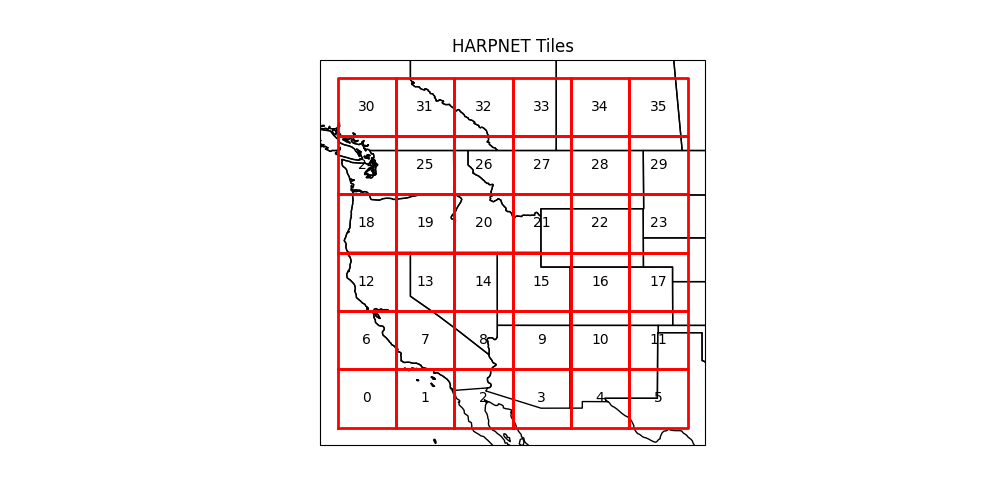
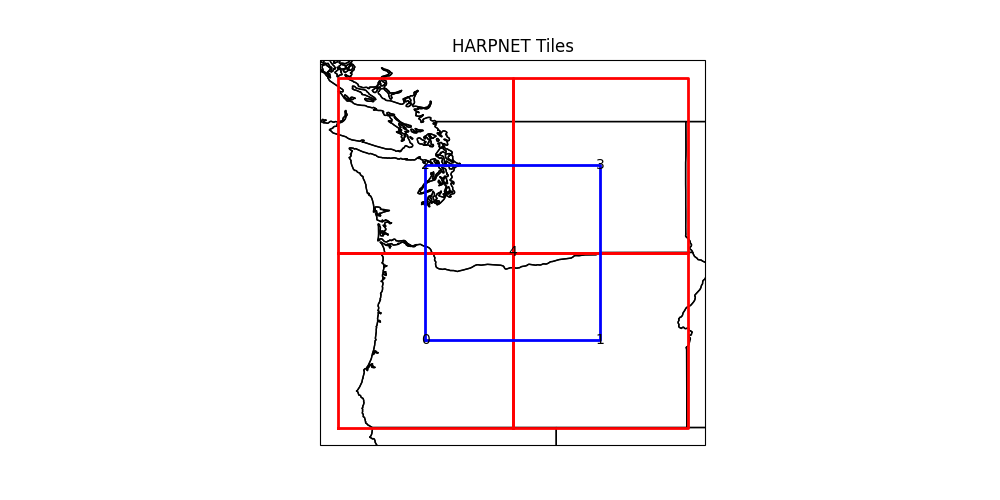
v3

Changed region(s): [[0.31, 0.12, 0.713, 0.9], [0.341, 0.78, 0.372, 0.81]]

diff --git a/v3/src/tile_weight_mask.py b/v3/src/tile_weight_mask.py
@@ -1,0 +1,63 @@
+import numpy as np
+
+
+def tile_weight_mask(size=64):
+    """
+    Generates a 2D NumPy array of specified size with:
+    - The four central grids set to 1.
+    - The corner grids set to 0.
+    - The two central grids on each edge set to 0.5.
+    - Intermediate grids varying based on their distance from the center.
+
+    Parameters:
+    - size (int): The size of the grid (size x size). Default is 64.
+
+    Returns:
+    - array (np.ndarray): The generated 2D array.
+    """
+    # Initialize a size x size array with zeros
+    array = np.zeros((size, size))
+    
+    # Define the center of the array
+    center = (size / 2 - 0.5, size / 2 - 0.5)  # e.g., (31.5, 31.5) for size=64
+    
+    # Create coordinate grids
+    x = np.arange(size)
+    y = np.arange(size)
+    X, Y = np.meshgrid(x, y)
+    
+    # Calculate the Euclidean distance from each grid to the center
+    distance = np.sqrt((X - center[0])**2 + (Y - center[1])**2)
+    
+    # Maximum distance is from center to a corner
+    max_distance = np.sqrt((center[0])**2 + (center[1])**2)
+    
+    # Apply the gradient formula: 1 - (distance / max_distance)^2
+    array = 1 - (distance / max_distance)**2
+    
+    # Ensure that the values are within [0, 1]
+    array = np.clip(array, 0, 1)
+    
+    # Assign exact values to the central grids
+    central_indices = [int(center[0]), int(center[1])]
+    array[central_indices[0], central_indices[1]] = 1
+    array[central_indices[0], central_indices[1]+1] = 1
+    array[central_indices[0]+1, central_indices[1]] = 1
+    array[central_indices[0]+1, central_indices[1]+1] = 1
+    
+    # Assign exact values to the corner grids
+    corners = [(0,0), (0,size-1), (size-1,0), (size-1,size-1)]
+    for corner in corners:
+        array[corner] = 0
+    
+    # Assign exact values to the center of each edge
+    edge_centers = [
+        (0, int(center[1])), (0, int(center[1]+1)),
+        (size-1, int(center[1])), (size-1, int(center[1]+1)),
+        (int(center[0]), 0), (int(center[0]+1), 0),
+        (int(center[0]), size-1), (int(center[0]+1), size-1)
+    ]
+    for edge in edge_centers:
+        array[edge] = 0.5
+    
+    return array

diff --git a/v3/train.py b/v3/train.py
@@ -8,29 +8,29 @@ from src.cleanup import cleanup
 
 # Variables
 start_month = (1979, 10)
-end_month = (1979, 10)
+end_month = (1984, 9)
 train_test_ratio = 0.2
-start_epoch, end_epoch = 0, 20
-zip_setting = False    # False, 'load', or 'save'
+start_epoch, end_epoch = 0, 5
+zip_setting = 'load'    # False, 'load', or 'save'
 max_ensemble_size = 8
 
 # plot_tiles()
 
-setup()
+tiles = list(range(0, 5))
 
-xr_to_np(start_month, end_month)
+for tile in tiles:
 
-if zip_setting == 'save':
-    quit()
+    setup(tile)
 
-train_dataloader, test_dataloader = generate_dataloaders(start_month, end_month, train_test_ratio)
+    xr_to_np(tile, start_month, end_month, zip_setting)
 
-print(len(train_dataloader), len(test_dataloader))
+    if zip_setting == 'save':
+        continue
 
-train_test(train_dataloader, test_dataloader, start_epoch, end_epoch)
+    train_dataloader, test_dataloader = generate_dataloaders(tile, start_month, end_month, train_test_ratio)
 
-quit()
+    train_test(tile, train_dataloader, test_dataloader, start_epoch, end_epoch)
 
-ensemble(tile, start_month, end_month, train_test_ratio, max_ensemble_size)
+    ensemble(tile, start_month, end_month, train_test_ratio, max_ensemble_size)
 
-cleanup(tile)
+    cleanup(tile)

diff --git a/v3/src/create_grid_tiles.py b/v3/src/create_grid_tiles.py
@@ -1,11 +1,18 @@
-from src.constants import SCALE_FACTOR, MIN_LAT, MIN_LON, MAX_LAT, MAX_LON
+from src.constants import SCALE_FACTOR, OUTER_GRID, INNER_GRID
 
 def create_grid_tiles():
     tile_size_degrees = int(16/SCALE_FACTOR)
+
     grid_domains = {}
     total_domains = 0
-    for lat in range(MIN_LAT, MAX_LAT, tile_size_degrees):
-        for lon in range(MIN_LON, MAX_LON, tile_size_degrees):
+    MIN_LAT, MIN_LON, MAX_LAT, MAX_LON = OUTER_GRID['MIN_LAT'], OUTER_GRID['MIN_LON'], OUTER_GRID['MAX_LAT'], OUTER_GRID['MAX_LON']
+    for lat in range(MIN_LAT, MAX_LAT+1, tile_size_degrees):
+        for lon in range(MIN_LON, MAX_LON+1, tile_size_degrees):
+            grid_domains[total_domains] = [lat, lat + tile_size_degrees, lon, lon + tile_size_degrees]
+            total_domains += 1
+    MIN_LAT, MIN_LON, MAX_LAT, MAX_LON = INNER_GRID['MIN_LAT'], INNER_GRID['MIN_LON'], INNER_GRID['MAX_LAT'], INNER_GRID['MAX_LON']
+    for lat in range(MIN_LAT, MAX_LAT+1, tile_size_degrees):
+        for lon in range(MIN_LON, MAX_LON+1, tile_size_degrees):
             grid_domains[total_domains] = [lat, lat + tile_size_degrees, lon, lon + tile_size_degrees]
             total_domains += 1
 

diff --git a/v3/src/plot_tiles.py b/v3/src/plot_tiles.py
@@ -12,12 +12,19 @@ def plot_tiles():
     ax = fig.add_subplot(1, 1, 1, projection=ccrs.PlateCarree())
     ax.coastlines()
     ax.add_feature(cartopy.feature.STATES)
+
     for tile in grid_tiles:
+        color = 'red' if tile < 4 else 'blue'
         tile_min_lat, tile_max_lat, tile_min_lon, tile_max_lon = grid_tiles[tile]
         ax.plot([tile_min_lon, tile_max_lon, tile_max_lon, tile_min_lon, tile_min_lon],
                 [tile_min_lat, tile_min_lat, tile_max_lat, tile_max_lat, tile_min_lat],
-                color='red', linewidth=2, transform=ccrs.PlateCarree())
+                color=color, linewidth=2, transform=ccrs.PlateCarree())
         ax.text((tile_min_lon + tile_max_lon) / 2, (tile_min_lat + tile_max_lat) / 2, str(tile),
                 horizontalalignment='center', verticalalignment='center', color='black', fontsize=10, transform=ccrs.PlateCarree())
+
     plt.title('HARPNET Tiles')
     plt.savefig(os.path.join(FIGURES_DIR, 'grid_tiles.png'))
+
+
+if __name__ == '__main__':
+    plot_tiles()

diff --git a/v3/train_new.py b/v3/train_new.py
@@ -1,0 +1,36 @@
+from src.plot_tiles import plot_tiles
+from src.setup import setup
+from src.xr_to_np import xr_to_np
+from src.generate_dataloaders import generate_dataloaders
+from src.train_test import train_test
+from src.ensemble import ensemble
+from src.cleanup import cleanup
+
+# Variables
+start_month = (1979, 10)
+end_month = (1985, 10)
+train_test_ratio = 0.2
+start_epoch, end_epoch = 0, 20
+zip_setting = False    # False, 'load', or 'save'
+max_ensemble_size = 8
+
+# plot_tiles()
+
+setup()
+
+xr_to_np(start_month, end_month)
+
+if zip_setting == 'save':
+    quit()
+
+train_dataloader, test_dataloader = generate_dataloaders(start_month, end_month, train_test_ratio)
+
+print(len(train_dataloader), len(test_dataloader))
+
+train_test(train_dataloader, test_dataloader, start_epoch, end_epoch)
+
+quit()
+
+ensemble(tile, start_month, end_month, train_test_ratio, max_ensemble_size)
+
+cleanup(tile)

diff --git a/v3/src/constants.py b/v3/src/constants.py
@@ -11,5 +11,5 @@ TORCH_DEVICE = 'cuda' if torch.cuda.is_available() else 'mps' if torch.backends.
 # GRID CONTROLS
 HOUR_INCREMENT = 1 # 1 for full, 3 for base
 SCALE_FACTOR = 4  # 8 for 3km, 4 for 6km
-MIN_LAT, MIN_LON = 30, -125
-MAX_LAT, MAX_LON = 51, -104
+OUTER_GRID = {'MIN_LAT': 42, 'MIN_LON': -125, 'MAX_LAT': 46, 'MAX_LON': -121}
+INNER_GRID = {'MIN_LAT': 44, 'MIN_LON': -123, 'MAX_LAT': 44, 'MAX_LON': -123}

diff --git a/v3/stack_eval.py b/v3/stack_eval.py
@@ -1,0 +1,9 @@
+from src.generate_dataloaders import generate_dataloaders
+
+start_month = (1979, 10)
+end_month = (1979, 10)
+train_test_ratio = 0.2
+
+train_dataloader, test_dataloader = generate_dataloaders(start_month, end_month, train_test_ratio)
+
+print(len(train_dataloader), len(test_dataloader))

diff --git a/v3/src/train_test.py b/v3/src/train_test.py
@@ -2,6 +2,7 @@ import torch
 import torch.nn as nn
 from tqdm import tqdm
 import os
+
 from src.model import UNetWithAttention
 from src.constants import TORCH_DEVICE, CHECKPOINTS_DIR
 
